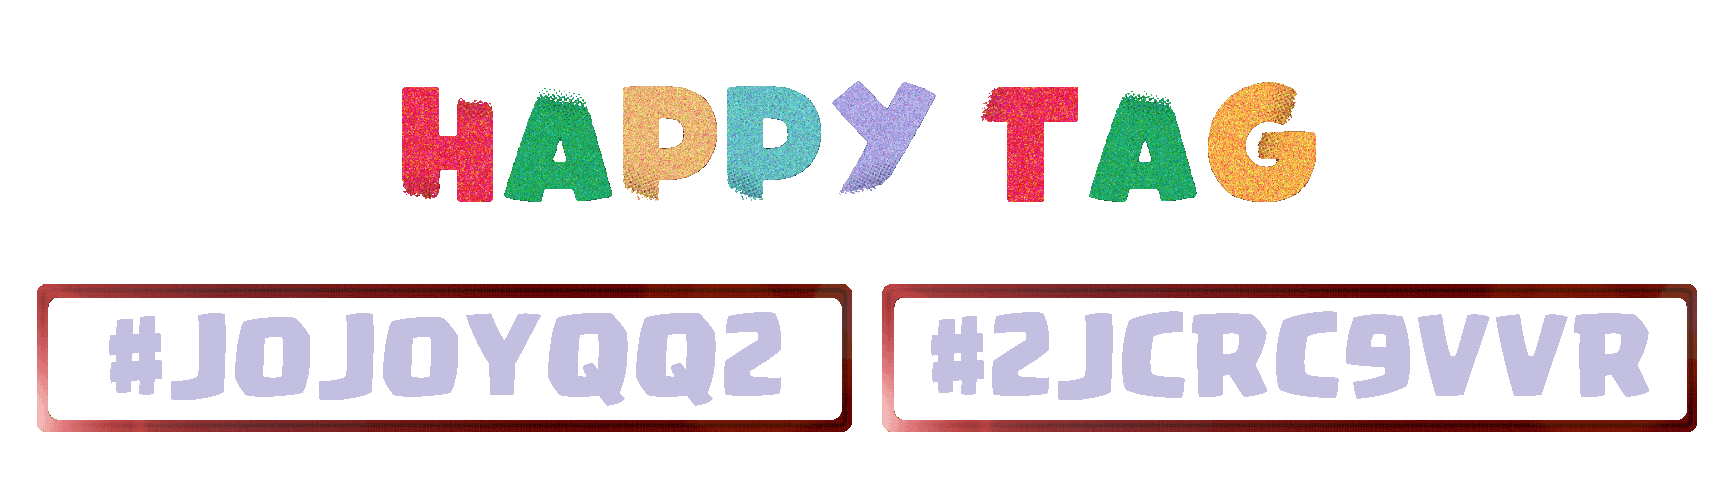
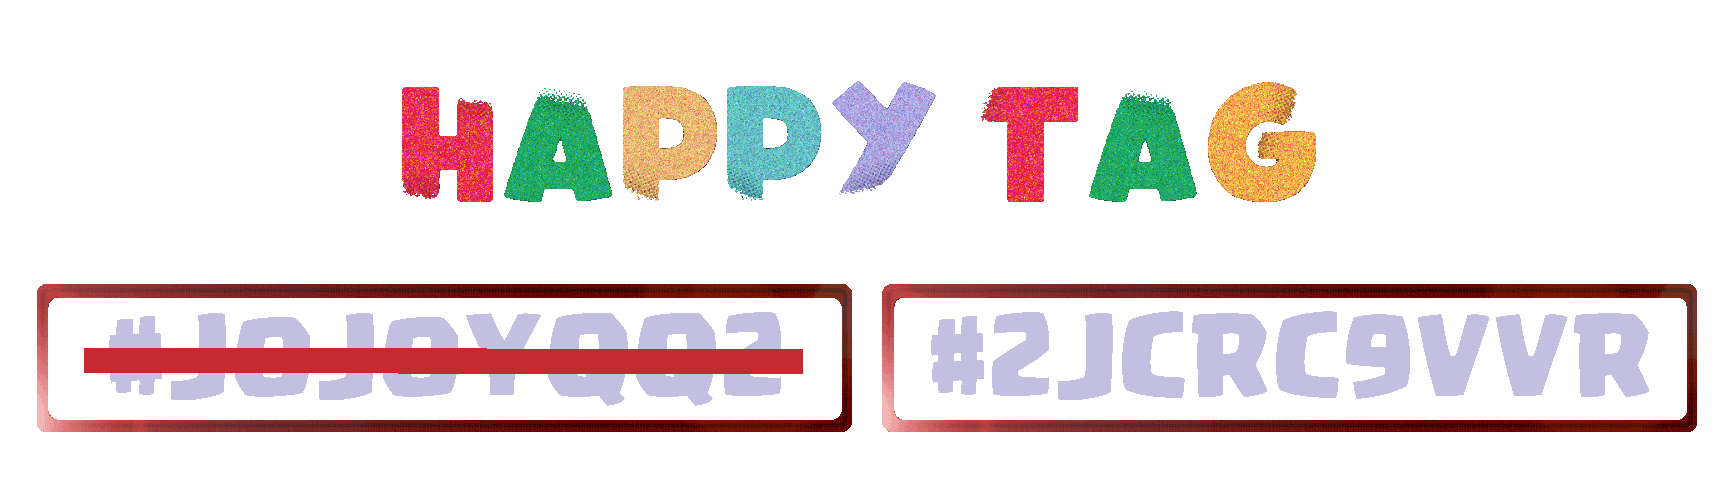
nowe tagi

Changed region(s): [[0.0312, 0.69, 0.4674, 0.75]]

diff --git a/szansa-dnia/index.html b/szansa-dnia/index.html
@@ -181,7 +181,7 @@
 
 <div class="mx-auto justify-center">
   <a href="/happy-tags">
-    <img src="/assets/img/happytagi10.png" class="md:w-64 w-56 mx-auto" />
+    <img src="/assets/img/happytagi11.png" class="md:w-64 w-56 mx-auto" />
   </a>
   <form action="https://api.staticforms.xyz/submit" method="POST">
     <div class="flex flex-col items-center mt-8 sm:mt-0 w-56 mx-auto">

diff --git a/happy-tags/index.html b/happy-tags/index.html
@@ -223,10 +223,10 @@
   <div class="md:w-1/3 p-2">
     <img class="rounded shadow" src="/assets/img/happytagi12.png" />
   </div>
+  -->
   <div class="md:w-1/3 p-2">
     <img class="rounded shadow" src="/assets/img/happytagi11.png" />
   </div>
-  -->
   <div class="md:w-1/3 p-2">
     <img class="rounded shadow" src="/assets/img/happytagi10.png" />
   </div>
